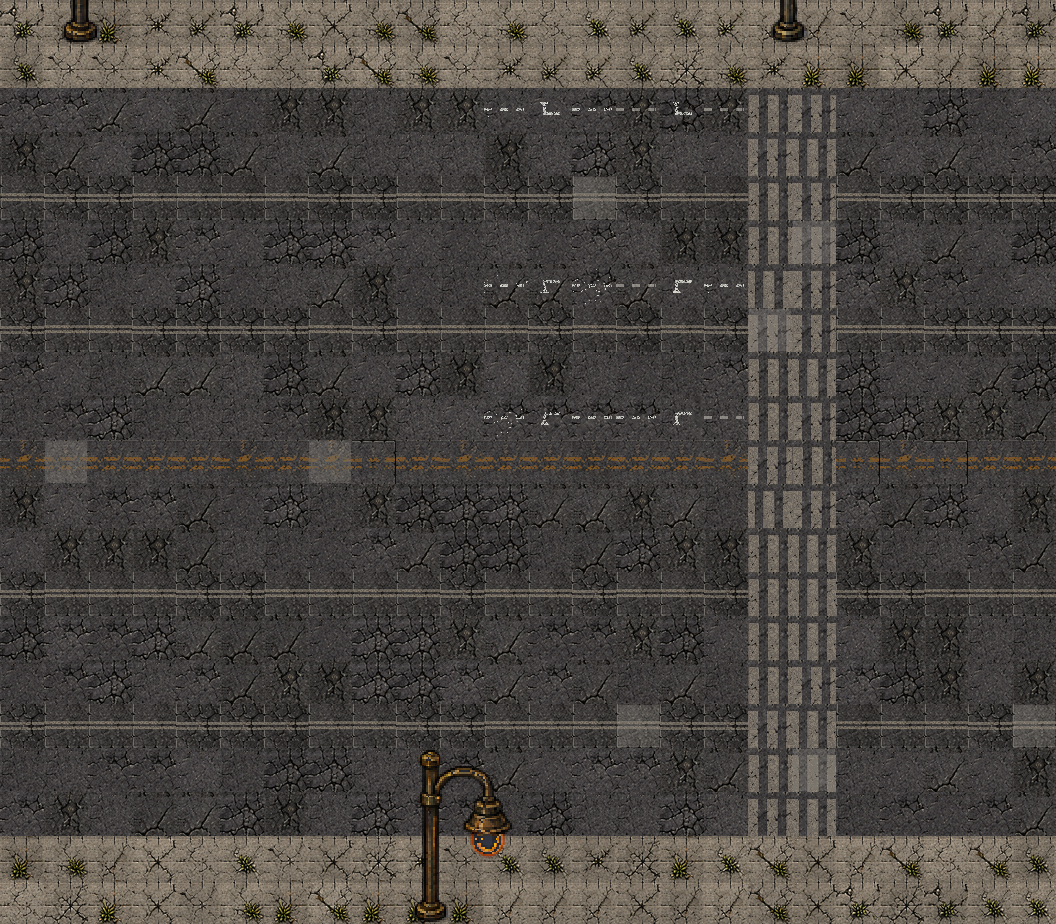
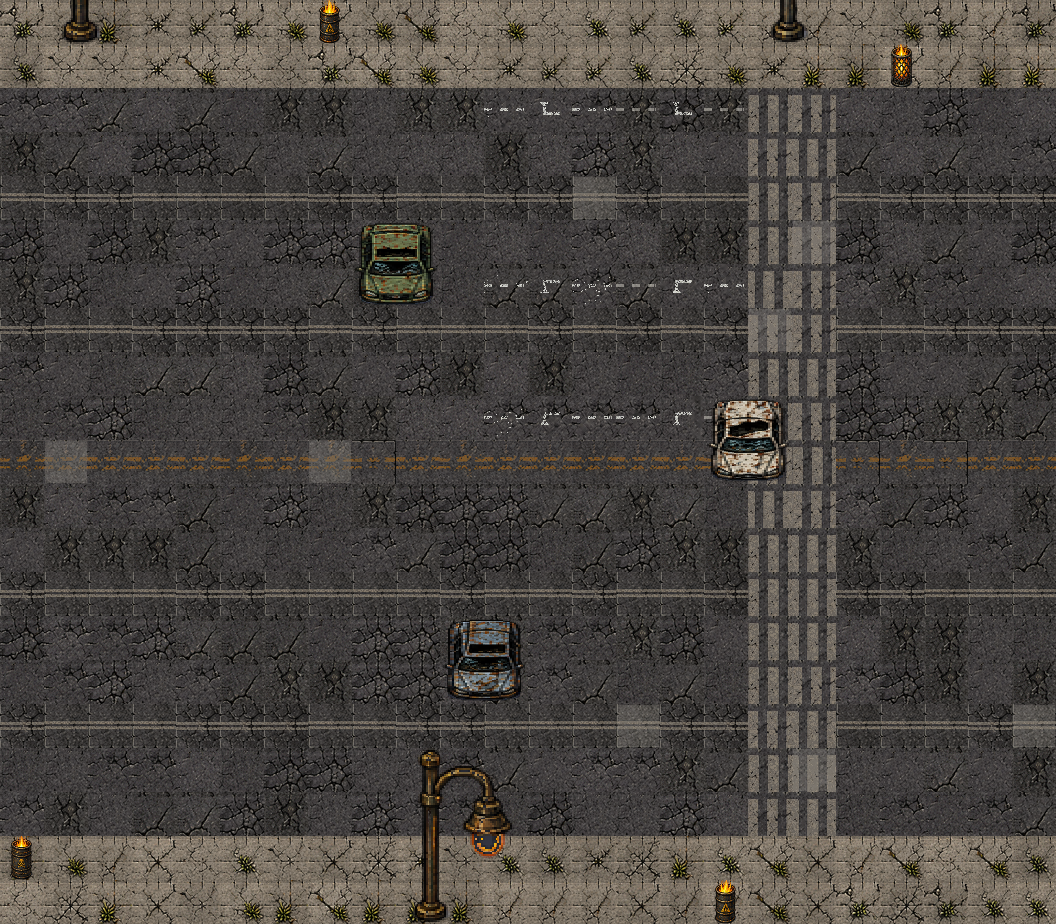
V12 BAKE: wrecked cars + fire barrels native in the baker
The bake factory's named NEXT was wrecks and barrels. Both art families
already lived in the corpus, so no new cook — an extractor derives them:

- tools/bohemia_street_prop_extract.py -> banks/BOHEMIA_STREET_PROP_
  POOLS_7_18_26.txt: 20 top-down car wrecks (HD part2 "Abandoned cars",
  the same family V11's baked DAY image used) + 12 burn barrels (demo
  prop pool "Light sources and fire barrels" indices 16-27, lamps and
  propane tanks excluded). Provenance recorded; corpus art, no new canon.
- the baker now composites car_wreck per the engine's w x h + facing
  (top-down art is NS-native, rot90 for EW) as ground furniture UNDER
  the standing props, then fire_barrel + dark lamp over them.
- all four live cells rebaked with props: slices/BOHEMIA_V12_BAKE_
  PROOF_{33,34,35,36}_6.{png,html}.

Handoff updated: bake NEXT is now the plot/building strips, then the
full V12 slice assembly. ALL 18 GATES GREEN.

Claude-Session: https://claude.ai/code/session_01SDyT8dAr851cnRpBcrw9JJ

diff --git a/tools/bohemia_street_prop_extract.py b/tools/bohemia_street_prop_extract.py
@@ -1,0 +1,55 @@
+#!/usr/bin/env python3
+"""BOHEMIA STREET PROP POOL EXTRACTOR (7/18/26)
+
+The bake factory needs car wrecks + fire barrels. Their art already lives
+in the corpus:
+  - HD_TILE_REPO part2 pack "10. Abandoned cars": 20 TOP-DOWN wrecks (the
+    same family the chat-era V11 bake used — the white cars in V11's DAY
+    image are this style)
+  - DEMO_PROP_POOL pack "18. Light sources and fire barrels": the burn
+    barrels (indices 16-27; 0-15 are pole lamps/lanterns, 28+ are propane
+    tanks — not barrels)
+
+This extracts JUST those into a small derived bank so the baker never has
+to load the multi-MB HD repo. Provenance recorded; contents are corpus
+art, not new canon.
+
+Run from repo root: python3 tools/bohemia_street_prop_extract.py
+"""
+import json
+import sys
+
+OUT = 'banks/BOHEMIA_STREET_PROP_POOLS_7_18_26.txt'
+
+
+def main():
+    d2 = json.load(open('banks/BOHEMIA_HD_TILE_REPO_part2.txt'))
+    cars = [e['b64'] for e in d2['packs']['10. Abandoned cars']]
+    prop = json.load(open('banks/BOHEMIA_DEMO_PROP_POOL_7_10_26.txt'))
+    pack = [p for p in prop['props']
+            if p.get('pack') == '18. Light sources and fire barrels']
+    barrels = [p['b64'] for p in pack[16:28]]
+    if len(cars) != 20 or len(barrels) != 12:
+        print('EXTRACTOR REFUSES: expected 20 cars + 12 barrels, got %d + %d'
+              % (len(cars), len(barrels)))
+        return 1
+    out = {
+        'version': 'BOHEMIA_STREET_PROP_POOLS_v1', 'date': '2026-07-18',
+        'provenance': {
+            'car_wreck': 'HD_TILE_REPO part2 / "10. Abandoned cars" (top-down, '
+                         'the V11 bake family)',
+            'fire_barrel': 'DEMO_PROP_POOL / "18. Light sources and fire '
+                           'barrels" indices 16-27 (the burn barrels; lamps '
+                           'and tanks excluded)',
+        },
+        'note': 'derived pool for the bake factory; corpus art, no new canon.',
+        'car_wreck': cars,
+        'fire_barrel': barrels,
+    }
+    json.dump(out, open(OUT, 'w'))
+    print('extracted %d cars + %d barrels -> %s' % (len(cars), len(barrels), OUT))
+    return 0
+
+
+if __name__ == '__main__':
+    sys.exit(main())

diff --git a/tools/bohemia_bake_factory.py b/tools/bohemia_bake_factory.py
@@ -35,6 +35,7 @@ from PIL import Image
 POOLS = 'banks/BOHEMIA_STREET_POOLS_HARMONIZED_7_14_26.txt'
 MARKS = 'banks/BOHEMIA_MARKING_BANK_7_17_26.txt'
 LAMPS = 'banks/BOHEMIA_LAMP_DARK_VARIANTS_7_14_26.txt'
+SPROPS = 'banks/BOHEMIA_STREET_PROP_POOLS_7_18_26.txt'   # cars + fire barrels
 T = 44
 SEED = 12345
 
@@ -151,15 +152,33 @@ def main():
     if filled != 24 * H:
         fail('cell coverage %d != %d' % (filled, 24 * H))
 
-    # lamps: street_lamp props, dark (these cells are powergrid-dark)
+    # props: wrecked cars ON the road first (ground furniture), then fire
+    # barrels + dark lamps standing over everything
+    sprops = json.load(open(SPROPS))
     outa = out.convert('RGBA')
     for y in range(H):
         for x in range(24):
             for p in blk['grid'][y][x]['props']:
-                if p['p'] != 'street_lamp':
+                if p['p'] != 'car_wreck':
                     continue
-                li = (x * 7 + y) % len(lampbank)
-                art = img_of(lampbank[li]['b64'], 'RGBA')
+                # CAR OVERLAP LAW: prop spans w x h cells from its anchor;
+                # top-down art faces NS natively, rot90 for EW
+                car = img_of(sprops['car_wreck'][(x * 13 + y * 7) % 20], 'RGBA')
+                if p.get('facing') == 'EW':
+                    car = car.rotate(90, expand=True)
+                dw, dh = p.get('w', 2) * T, p.get('h', 2) * T
+                car = car.resize((dw - 6, dh - 6), Image.NEAREST)
+                outa.alpha_composite(car, (x * T + 3, y * T + 3))
+    for y in range(H):
+        for x in range(24):
+            for p in blk['grid'][y][x]['props']:
+                if p['p'] == 'street_lamp':
+                    li = (x * 7 + y) % len(lampbank)
+                    art = img_of(lampbank[li]['b64'], 'RGBA')
+                elif p['p'] == 'fire_barrel':
+                    art = img_of(sprops['fire_barrel'][(x * 11 + y * 5) % 12], 'RGBA')
+                else:
+                    continue
                 dh = p['hTiles'] * T
                 dw = round(art.width * dh / art.height)
                 art = art.resize((dw, dh), Image.NEAREST)

diff --git a/00_START_HERE_NEXT_SESSION.md b/00_START_HERE_NEXT_SESSION.md
@@ -181,10 +181,15 @@ DAY ONE IN ONE BREATH (details + lessons in STATE_OF_PLAY 7/17):
 1. V12-class bake: THE BAKE FACTORY EXISTS (7/17, tools/bohemia_bake_factory.py
    — rebuilt from the harmonized pools' data-laws: 88/12 weather rarity, family
    edge harmonization, the APPROVED marking bank for native cell.mk, dark lamps).
-   First proof baked: slices/BOHEMIA_V12_BAKE_PROOF_35_6.{png,html} — the
-   commercial block, pockets baked natively, self-gated (coverage, roles,
-   purple-zero, deterministic). NEXT: wrecks + fire barrels + plot/building
-   strips into the baker, then the full V12 slice (all four cells + payload
+   7/18: WRECKS + FIRE BARRELS ARE IN — tools/bohemia_street_prop_extract.py
+   derives banks/BOHEMIA_STREET_PROP_POOLS_7_18_26.txt (20 top-down cars from
+   HD part2 "Abandoned cars" — the V11 bake's own family — + 12 burn barrels
+   from the demo prop pool, provenance recorded, corpus art not new canon);
+   the baker composites car_wreck per the engine's w x h + facing (rot90 for
+   EW) and fire_barrel/lamp props over them. ALL FOUR live cells baked:
+   slices/BOHEMIA_V12_BAKE_PROOF_{33,34,35,36}_6.{png,html}. NEXT: the
+   plot/building strips (HOUSE_FACTORY_BANK + plot art between the street
+   bands), then assemble the full V12 slice (all four cells + payload
    wiring) — at that point V11's overlay era ends.
 2. Questbook mining: PAUSED AT 68 pending Paolo's lane pick (see below).
 3. Alpha absorption: preflight GO since 7/14; ONE session, WITH Paolo.